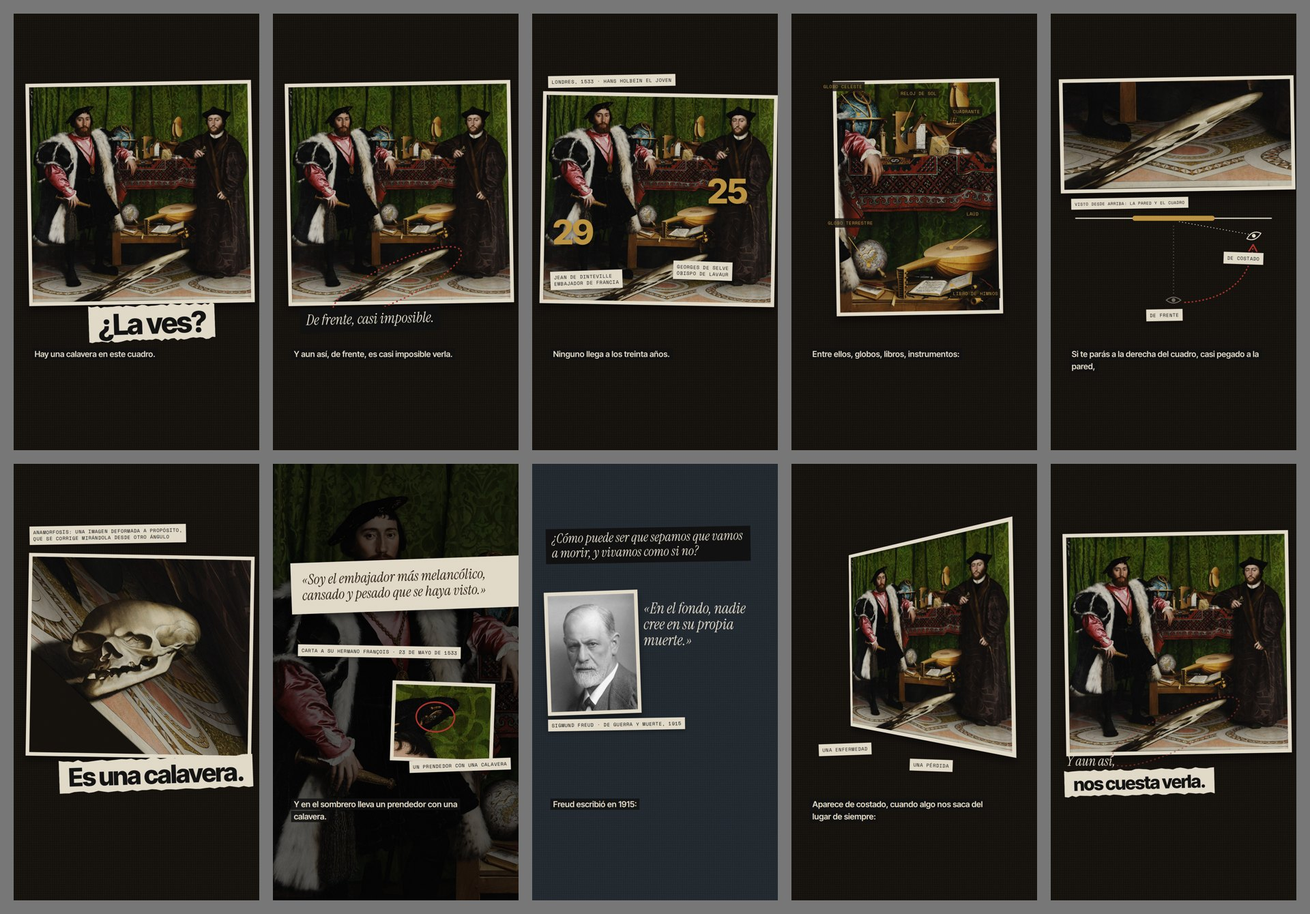
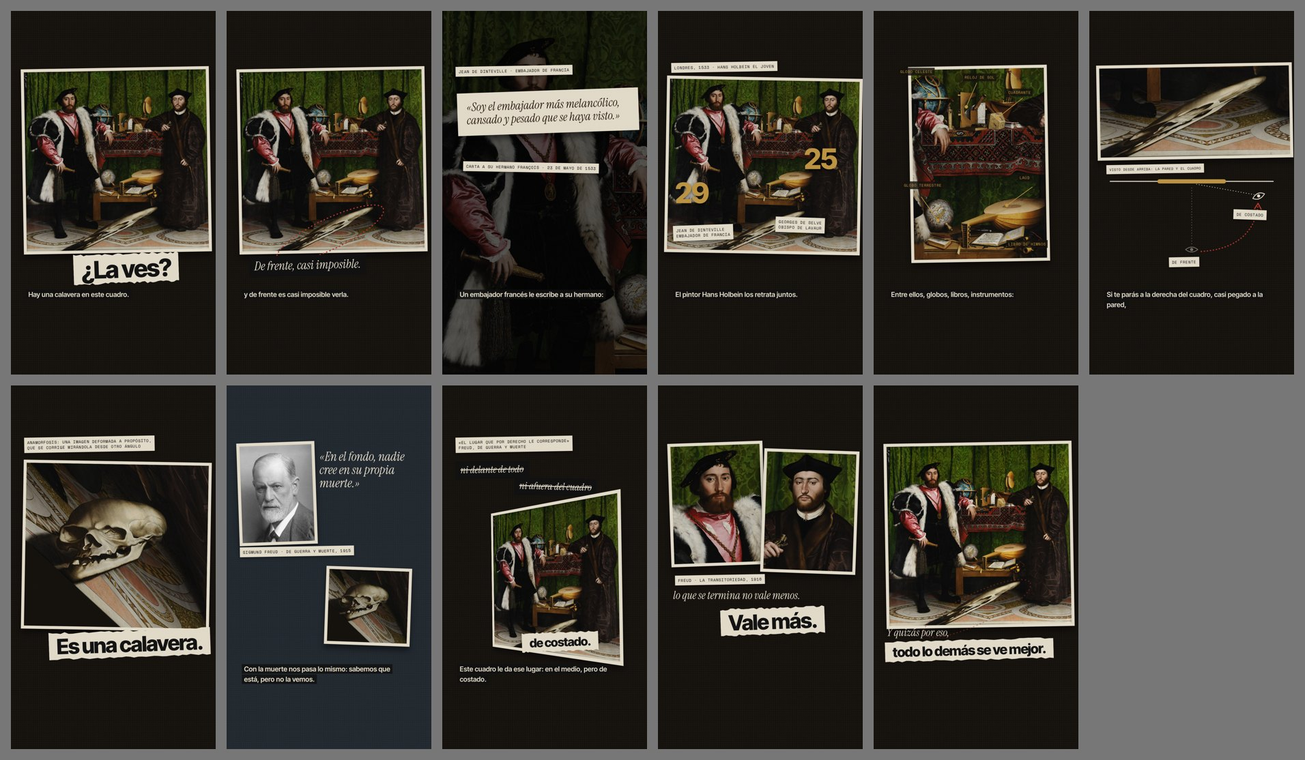
04: guion versión 2 con el aporte para quien mira; reglas del aporte y del estreno
Después de la devolución de Dano: el giro ya no termina en describir cómo negamos la muerte, sino en darle su lugar (Freud,
De guerra y muerte) y en que lo que se termina vale más (La transitoriedad). Guía de escritura, regla 13: cada video le deja
algo a quien mira. Guía visual, regla 14: cada video estrena un efecto (en el 04, la anamorfosis animada).

Claude-Session: https://claude.ai/code/session_014ALApHG8hUWvBvb5xsLDbW

diff --git a/videos/04-embajadores/storyboard.html b/videos/04-embajadores/storyboard.html
@@ -22,6 +22,7 @@
 </style>
 </head>
 <body>
+<!-- el orden del video: f1 f2 f7 f3 f4 f5 f6 f8 f9 f11 f10 (ver la tabla del guion) -->
 
 <!-- 1 · GANCHO: el cuadro entero -->
 <section class="frame" id="f1">
@@ -45,11 +46,11 @@
     </svg>
   </div>
   <div class="negro serif" style="top:1290px;left:120px;font-size:64px;transform:rotate(-1.5deg)">De frente, casi imposible.</div>
-  <div class="sub" style="top:1470px"><span>Y aun así, de frente, es casi imposible verla.</span></div>
+  <div class="sub" style="top:1470px"><span>y de frente es casi imposible verla.</span></div>
   <div class="grano"></div>
 </section>
 
-<!-- 3 · LOS DOS -->
+<!-- 4 · EL AMIGO: los dos, con sus edades -->
 <section class="frame" id="f3">
   <div class="puntos"></div>
   <div class="ficha" style="top:270px;left:70px;transform:rotate(-1deg)">Londres, 1533 · Hans Holbein el Joven</div>
@@ -60,7 +61,7 @@
   <div class="ficha" style="top:1090px;left:620px;transform:rotate(2deg)">Georges de Selve<br>obispo de Lavaur</div>
   <div class="num" style="top:870px;left:90px;font-size:150px">29</div>
   <div class="num" style="top:690px;left:770px;font-size:150px">25</div>
-  <div class="sub" style="top:1470px"><span>Ninguno llega a los treinta años.</span></div>
+  <div class="sub" style="top:1470px"><span>El pintor Hans Holbein los retrata juntos.</span></div>
   <div class="grano"></div>
 </section>
 
@@ -129,58 +130,73 @@
   <div class="grano"></div>
 </section>
 
-<!-- 7 · LA CARTA y el prendedor -->
+<!-- 3 · LA CARTA -->
 <section class="frame" id="f7">
   <div class="plate oscuro" data-img="emb" data-crop="300,150,1500,2667" style="inset:0"></div>
-  <div class="carta serif" style="top:420px;left:80px;width:920px;font-size:62px;line-height:1.12;transform:rotate(-2deg)">«Soy el embajador más melancólico, cansado y pesado que se haya visto.»</div>
+  <div class="ficha" style="top:290px;left:70px;transform:rotate(-1deg)">Jean de Dinteville · embajador de Francia</div>
+  <div class="carta serif" style="top:420px;left:80px;width:860px;font-size:62px;line-height:1.12;transform:rotate(-2deg)">«Soy el embajador más melancólico, cansado y pesado que se haya visto.»</div>
   <div class="ficha" style="top:800px;left:110px;transform:rotate(1deg)">Carta a su hermano François · 23 de mayo de 1533</div>
-  <div class="lamina" style="top:960px;left:520px;width:420px;height:320px;transform:rotate(2deg)">
-    <div class="plate" data-img="emb" data-crop="960,320,250,180"></div>
-    <svg class="marca" style="inset:16px" viewBox="0 0 388 288" fill="none" stroke="var(--rojo)" stroke-width="6">
-      <ellipse cx="164" cy="128" rx="78" ry="60"/>
-    </svg>
-  </div>
-  <div class="ficha" style="top:1300px;left:600px;transform:rotate(-2deg)">un prendedor con una calavera</div>
-  <div class="sub" style="top:1470px"><span>Y en el sombrero lleva un prendedor con una calavera.</span></div>
+  <div class="sub" style="top:1470px"><span>Un embajador francés le escribe a su hermano:</span></div>
   <div class="grano"></div>
 </section>
 
-<!-- 8 · FREUD -->
+<!-- 7 · FREUD -->
 <section class="frame teal" id="f8">
   <div class="puntos"></div>
-  <div class="negro serif" style="top:280px;left:60px;right:120px;font-size:58px;line-height:1.1;transform:rotate(-1deg)">¿Cómo puede ser que sepamos que vamos a morir, y vivamos como si no?</div>
-  <div class="lamina" style="top:560px;left:60px;width:380px;height:510px;transform:rotate(-2deg)">
+  <div class="lamina" style="top:300px;left:60px;width:380px;height:510px;transform:rotate(-2deg)">
     <div class="plate" data-img="freud" data-crop="360,20,600,795"></div>
   </div>
-  <div class="serif" style="top:600px;left:490px;width:470px;font-size:66px;line-height:1.06">«En el fondo, nadie cree en su propia muerte.»</div>
-  <div class="ficha" style="top:1120px;left:70px;transform:rotate(-1deg)">Sigmund Freud · De guerra y muerte, 1915</div>
-  <div class="sub" style="top:1470px"><span>Freud escribió en 1915:</span></div>
+  <div class="serif" style="top:340px;left:490px;width:470px;font-size:66px;line-height:1.06">«En el fondo, nadie cree en su propia muerte.»</div>
+  <div class="ficha" style="top:850px;left:70px;transform:rotate(-1deg)">Sigmund Freud · De guerra y muerte, 1915</div>
+  <div class="lamina ventana" style="top:960px;left:520px;width:420px;height:380px;transform:rotate(2deg);background-color:var(--crema)">
+    <div class="plate ventana">
+      <div class="anamorfosis" data-k=".2" style="width:2688px;height:2649px;left:-1157px;top:-2150px;transform-origin:1351px 2324px;opacity:.85"></div>
+    </div>
+  </div>
+  <div class="sub" style="top:1470px"><span>Con la muerte nos pasa lo mismo: sabemos que está, pero no la vemos.</span></div>
   <div class="grano"></div>
 </section>
 
-<!-- 9 · DE COSTADO: la calavera asoma cuando el cuadro se inclina -->
+<!-- 8 · EL LUGAR: ni delante de todo, ni afuera del cuadro; en el medio, pero de costado -->
 <section class="frame" id="f9">
   <div class="puntos"></div>
-  <div class="lamina" style="top:330px;left:110px;width:860px;height:848px;transform:perspective(1600px) rotateY(-38deg) rotate(-1deg)">
+  <div class="ficha" style="top:270px;left:70px;transform:rotate(-1deg)">«el lugar que por derecho le corresponde»<br>Freud, De guerra y muerte</div>
+  <div class="negro serif" style="top:400px;left:70px;font-size:52px;transform:rotate(-1deg)"><s>ni delante de todo</s></div>
+  <div class="negro serif" style="top:490px;left:380px;font-size:52px;transform:rotate(1.5deg)"><s>ni afuera del cuadro</s></div>
+  <div class="lamina" style="top:620px;left:150px;width:780px;height:770px;transform:perspective(1600px) rotateY(-34deg) rotate(-1deg)">
     <div class="plate" data-img="emb" data-crop="0,0,3840,3784"></div>
   </div>
-  <div class="ficha" style="top:1230px;left:120px;transform:rotate(-2deg)">una enfermedad</div>
-  <div class="ficha" style="top:1300px;left:520px;transform:rotate(2deg)">una pérdida</div>
-  <div class="sub" style="top:1470px"><span>Aparece de costado, cuando algo nos saca del lugar de siempre:</span></div>
+  <div class="tira titular" data-rasgado style="top:1300px;left:420px;font-size:64px;transform:rotate(-2deg)">de costado.</div>
+  <div class="sub" style="top:1470px"><span>Este cuadro le da ese lugar: en el medio, pero de costado.</span></div>
   <div class="grano"></div>
 </section>
 
-<!-- 10 · CIERRE: de frente otra vez -->
+<!-- 9 · VALE MÁS: los dos amigos -->
+<section class="frame" id="f11">
+  <div class="puntos"></div>
+  <div class="lamina" style="top:300px;left:60px;width:470px;height:620px;transform:rotate(-2deg)">
+    <div class="plate" data-img="emb" data-crop="560,300,760,1003"></div>
+  </div>
+  <div class="lamina" style="top:340px;left:550px;width:470px;height:620px;transform:rotate(2deg)">
+    <div class="plate" data-img="emb" data-crop="2900,380,760,1003"></div>
+  </div>
+  <div class="ficha" style="top:1000px;left:90px;transform:rotate(-1deg)">Freud · La transitoriedad, 1916</div>
+  <div class="serif" style="top:1070px;left:80px;font-size:58px">lo que se termina no vale menos.</div>
+  <div class="tira titular" data-rasgado style="top:1170px;left:330px;font-size:112px;transform:rotate(-2deg)">Vale más.</div>
+  <div class="grano"></div>
+</section>
+
+<!-- 10 · CIERRE: de frente otra vez, y todo lo demás se ilumina -->
 <section class="frame" id="f10">
   <div class="puntos"></div>
   <div class="lamina" style="top:300px;left:60px;width:960px;height:946px;transform:rotate(-1deg)">
-    <div class="plate" data-img="emb" data-crop="0,0,3840,3784"></div>
-    <svg class="marca" style="inset:16px" viewBox="0 0 928 914" fill="none" stroke="var(--rojo)" stroke-width="6" stroke-linecap="round" opacity=".55">
+    <div class="plate" data-img="emb" data-crop="0,0,3840,3784" style="filter:brightness(1.12) saturate(1.1)"></div>
+    <svg class="marca" style="inset:16px" viewBox="0 0 928 914" fill="none" stroke="var(--rojo)" stroke-width="6" stroke-linecap="round" opacity=".4">
       <ellipse rx="300" ry="78" stroke-dasharray="2 16" transform="translate(448 832) rotate(-24.5)"/>
     </svg>
   </div>
-  <div class="serif" style="top:1268px;left:70px;font-size:60px">Y aun así,</div>
-  <div class="tira titular" data-rasgado style="top:1340px;left:60px;font-size:80px;white-space:nowrap;transform:rotate(-1.5deg)">nos cuesta verla.</div>
+  <div class="serif" style="top:1268px;left:70px;font-size:56px">Y quizás por eso,</div>
+  <div class="tira titular" data-rasgado style="top:1340px;left:60px;font-size:72px;white-space:nowrap;transform:rotate(-1.5deg)">todo lo demás se ve mejor.</div>
   <div class="grano"></div>
 </section>
 

diff --git a/videos/04-embajadores/guion.md b/videos/04-embajadores/guion.md
@@ -1,63 +1,86 @@
 # 04 · Los embajadores: la calavera que no se ve de frente
 
-Formato B (leer un cuadro), con la historia de quien lo encargó · Duración estimada: 84 s · 1080×1920 · Sistema visual v1 con
+Formato B (leer un cuadro), con la historia de los dos amigos · Duración estimada: 84 s · 1080×1920 · Sistema visual v1 con
 paleta propia (ver abajo).
 
 Elegido de las pistas ★★ del [banco de pistas](../../docs/banco-de-pistas.md#-la-calavera-que-solo-se-ve-de-costado): el mismo
 juego que funcionó con Ícaro ("¿la ves?"), pero acá buscar no alcanza: para ver la calavera hay que cambiar de lugar.
 
-## Guion (voz en off)
+## Guion (voz en off) · versión 2
+
+Reescrita después de la devolución de Dano sobre la versión 1: además de mostrar la obra, ¿qué se lleva quien mira? (regla 13
+de la [guía de escritura](../../docs/guia-de-escritura.md)). La versión 1 describía cómo negamos la muerte; la 2 propone algo
+para pensar: darle a la muerte su lugar, y lo que eso le hace al valor de lo demás.
 
 > Hay una calavera en este cuadro. ¿La ves?
 >
-> Está en el medio, a la vista de todos. Y aun así, de frente, es casi imposible verla. La razón dice algo de cómo miramos nuestra propia muerte.
+> Está en el medio, a la vista de todos, y de frente es casi imposible verla. La razón dice algo de cómo vivimos sabiendo que vamos a morir.
 >
-> Londres, 1533. El pintor Hans Holbein retrata a dos franceses: un embajador y su amigo, un obispo. Ninguno llega a los treinta años.
+> Londres, 1533. Un embajador francés le escribe a su hermano: «Soy el embajador más melancólico, cansado y pesado que se haya visto». Su amigo, un obispo, viaja a visitarlo, y eso lo alegra. El pintor Hans Holbein los retrata juntos.
 >
 > Entre ellos, globos, libros, instrumentos: todo lo que sabían y lo que tenían.
 >
-> Pero a sus pies hay una mancha larga. Si te parás a la derecha del cuadro, casi pegado a la pared, la mancha se acomoda: es una calavera. Holbein la pintó deformada a propósito.
+> Pero a sus pies hay una mancha larga. Si te parás a la derecha del cuadro, casi pegado a la pared, la mancha se acomoda: es una calavera.
 >
-> Ese año, el embajador le escribió a su hermano: «Soy el embajador más melancólico, cansado y pesado que se haya visto». Y en el sombrero lleva un prendedor con una calavera.
+> Con la muerte nos pasa lo mismo: sabemos que está, pero no la vemos. Freud escribió en 1915: «En el fondo, nadie cree en su propia muerte».
 >
-> ¿Cómo puede ser que sepamos que vamos a morir, y vivamos como si no? Freud escribió en 1915: «En el fondo, nadie cree en su propia muerte».
+> Pero también propuso darle a la muerte el lugar que le corresponde. Ni delante de todo, ni afuera del cuadro. Este cuadro le da ese lugar: en el medio, pero de costado.
 >
-> En el cuadro pasa lo mismo: la muerte está en el medio, pero de frente no se ve. Aparece de costado, cuando algo nos saca del lugar de siempre: una enfermedad, una pérdida.
+> Y Freud escribió algo más: lo que se termina no vale menos. Vale más.
 >
-> Ahora que sabés dónde está, volvé a mirar el cuadro de frente. La calavera sigue ahí. Y aun así, nos cuesta verla.
+> Ahora volvé a mirar el cuadro de frente. La calavera casi no se ve. Pero sabés que está. Y quizás por eso, todo lo demás se ve mejor.
 
-219 palabras: unos 81 s de voz a 2,7 palabras por segundo, más 1,5 s de silencio después de "¿La ves?" (para buscar) y la
+218 palabras: unos 81 s de voz a 2,7 palabras por segundo, más 1,5 s de silencio después de "¿La ves?" (para buscar) y la
 cola: 84–86 s.
 
-**Para la voz:** "Holbein" se dice *jólbain*; "Freud", *fróid*. Si ElevenLabs lee mal "1533", escribir "mil quinientos treinta y
-tres" solo en el texto que se le pasa.
+**Para la voz:** "Holbein" se dice *jólbain*; "Freud", *fróid*. Si ElevenLabs lee mal "1533" o "1915", escribirlos con letras
+solo en el texto que se le pasa.
+
+### Qué se lleva quien mira
+
+Tres ideas de Freud, encadenadas y dichas simple, sin nombrar escuelas:
+
+1. **Sabemos que vamos a morir, pero no lo creemos** (*De guerra y muerte*, 1915). No es un defecto de nadie: es cómo
+   funciona la cabeza. Por eso la calavera de frente no se ve.
+2. **Negarla del todo tampoco sirve:** en el mismo texto, Freud propone darle a la muerte "el lugar que por derecho le
+   corresponde". La voz lo traduce en imagen: ni delante de todo (vivir con miedo), ni afuera del cuadro (hacer como si no
+   existiera). La anamorfosis es justo eso: está en el medio, pero se ve de costado.
+3. **Lo que se termina vale más** (*La transitoriedad*, 1916): a un poeta que decía que la belleza perdía valor porque iba a
+   terminarse, Freud le contestó que pasaba lo contrario.
+
+El cierre no da una receta: "quizás por eso, todo lo demás se ve mejor". Lo demás es lo que el video ya mostró (lo que sabían,
+lo que tenían, la visita del amigo) y lo que cada uno ponga.
 
 ### Por qué está armado así
 
 - **El juego del 02, con otra vuelta.** En Ícaro bastaba con buscar bien. Acá la calavera está en el centro y aun así no se
   ve: hay que moverse. El truco del cuadro es el concepto del video.
-- **Una revelación cada 10 segundos:** la mancha, la calavera, la carta del embajador, el prendedor, Freud, "aparece de
-  costado".
-- **Los nombres van en pantalla, no en la voz** (método de los 90 s, punto 5): la voz dice "un embajador y su amigo, un
+- **Una persona con algo en juego:** un embajador triste, lejos de su casa, al que una visita le cambia el ánimo. El cuadro
+  retrata esa amistad, y la calavera está en el medio.
+- **Una revelación cada 10 segundos:** la carta, el amigo, la mancha, la calavera, Freud, "el lugar que le corresponde",
+  "vale más".
+- **Los nombres van en pantalla, no en la voz** (método de los 90 s, punto 5): la voz dice "un embajador" y "su amigo, un
   obispo"; las fichas dicen Jean de Dinteville y Georges de Selve, con sus edades (29 y 25, escritas en el cuadro).
 - **El dato y la lectura, separados.** Que la calavera es una anamorfosis lo confirma el museo. Freud no escribió sobre este
-  cuadro: la voz cuenta lo que escribió sobre la muerte, y la frase "en el cuadro pasa lo mismo" deja claro que el puente lo
-  hacemos nosotros.
-- **Lacan queda para El Reflejo.** Su lectura (la calavera como una mirada que nos descoloca, Seminario 11, 1964) es la más
-  rica, pero necesita más tiempo del que hay. Se nombra en la descripción.
-- **El cierre rima con la promesa** ("Y aun así, de frente, es casi imposible verla" → "Y aun así, nos cuesta verla"), no
-  juzga a quien mira e incluye a quien habla.
+  cuadro: "este cuadro le da ese lugar" describe dónde está la calavera, no lo que quiso Holbein.
+- **Lacan y Žižek quedan para El Reflejo.** Lacan lee la calavera como una mirada que nos descoloca (Seminario 11, 1964);
+  Žižek tomó la idea para el título de *Mirando al sesgo* (1991). Se nombran en la descripción.
+
+### Versión 1 (descartada)
+
+Describía bien el mecanismo, pero terminaba en "nos cuesta verla": a quien mira no le dejaba nada para pensar más allá del
+cuadro. Queda en la historia del repo (commit `3e7fcdf`).
 
 ## Guion visual
 
 **Paleta, sacada del cuadro y distinta de la del 03** (que era verde estanque y rosa): nogal `#16120E` (el fondo oscuro del
-cuadro; fondo principal), hueso `#ECE4D2` (la calavera; papel de fichas y carta), lacre `#A0302A` (la alfombra; acento y
+cuadro; fondo principal), hueso `#ECE4D2` (la calavera; papel de fichas y carta), lacre `#B8362C` (la alfombra; acento y
 marcadores), oro viejo `#C49A45` (los instrumentos; líneas de catálogo) y pizarra `#232A31` (fondo del tramo de Freud).
 
 **Lo que cambia respecto del 03** (ver [guía visual](../../docs/guia-visual.md#variar-de-un-video-a-otro)):
 - El motivo es **el costado**: los tramos entran y salen deslizándose de lado (en el 03 subía una marea).
-- **La anamorfosis animada:** el cuadro entero se comprime en la dirección de la mancha (como se ve desde el costado) y la
-  calavera se endereza. Probado con la imagen: con un 20 % del largo se lee perfecta.
+- **Estreno: la anamorfosis animada.** El cuadro entero se comprime en la dirección de la mancha (como se ve desde el
+  costado) y la calavera se endereza. Probado con la imagen: con un 20 % del largo se lee perfecta.
 - **Un plano visto desde arriba** (pared, cuadro y un ojo que camina hasta pegarse a la pared) explica dónde pararse.
 - **Líneas de catálogo:** los objetos de la mesa se nombran con líneas finas que salen de cada uno.
 - **La carta escrita con tinta:** la cita del embajador aparece línea por línea, como escrita a mano, sobre papel hueso.
@@ -65,14 +88,15 @@ marcadores), oro viejo `#C49A45` (los instrumentos; líneas de catálogo) y piza
 | # | Tramo | Imagen | Texto en pantalla |
 |---|---|---|---|
 | 1 | Gancho | El cuadro entero en una lámina, sobre nogal; la cámara se acerca despacio. 1,5 s de silencio para buscar | "¿La ves?" |
-| 2 | Promesa | Un rectángulo punteado lacre encierra la mancha sin taparla; vuelve el cuadro entero | "De frente, casi imposible." · "¿Cómo miramos nuestra propia muerte?" |
-| 3 | Los dos | El cuadro a sangre: la cámara va de Dinteville a Selve; en "treinta" aparecen el 29 de la daga y el 25 del libro | ficha "Londres, 1533 · Hans Holbein el Joven" · fichas con nombres y cargos · "29" · "25" |
-| 4 | La mesa | La cámara en la mesa; líneas de catálogo a cada objeto | "globo celeste" · "relojes de sol" · "globo terrestre" · "laúd" · "libros" |
-| 5 | La mancha | La cámara baja al piso. En "a la derecha del cuadro", el plano visto desde arriba: el ojo camina hasta la pared. En "se acomoda", la anamorfosis: el cuadro se comprime y aparece la calavera | "Es una calavera." · ficha "Anamorfosis: una imagen deformada a propósito, que se corrige mirándola desde otro ángulo" |
-| 6 | La carta | La cara de Dinteville a sangre, oscurecida; entra de costado una hoja hueso con la cita escrita con tinta. En "sombrero", la cámara sube al prendedor y lo rodea una elipse que no lo tapa | ficha "Carta a su hermano François, 23 de mayo de 1533" · la cita |
-| 7 | Freud | Fondo pizarra. La pregunta; después Freud en una lámina y la cita escrita con tinta | "¿Cómo puede ser…?" · ficha "*De guerra y muerte* (1915)" · «En el fondo, nadie cree en su propia muerte.» |
-| 8 | De costado | El cuadro de frente; la calavera corregida aparece como un fantasma y se va. En "de costado", el cuadro se inclina apenas y la calavera asoma | "una enfermedad" · "una pérdida" |
-| 9 | Cierre | El cuadro de frente, con el rectángulo punteado; en "sigue ahí" late una vez y se apaga. El último segundo vuelve al primer cuadro (el loop empalma) | "Y aun así, nos cuesta verla." |
+| 2 | Promesa | Una elipse punteada lacre rodea la mancha sin taparla | "De frente, casi imposible." |
+| 3 | La carta | Dinteville a sangre, oscurecido; entra de costado una hoja hueso con la cita escrita con tinta | ficha "Jean de Dinteville, embajador de Francia · carta a su hermano, 23 de mayo de 1533" · la cita |
+| 4 | El amigo | La cámara cruza el cuadro hasta Selve; en "los retrata juntos" se abre al cuadro entero y aparecen el 29 de la daga y el 25 del libro | ficha "Georges de Selve, obispo de Lavaur" · ficha "Hans Holbein el Joven · Londres, 1533" · "29" · "25" |
+| 5 | La mesa | La cámara en la mesa; líneas de catálogo a cada objeto | "globo celeste" · "reloj de sol" · "cuadrante" · "globo terrestre" · "laúd" · "libro de himnos" |
+| 6 | La mancha | La cámara baja al piso. En "a la derecha del cuadro", el plano visto desde arriba: el ojo camina hasta la pared. En "se acomoda", la anamorfosis: el cuadro se comprime y aparece la calavera | "Es una calavera." · ficha "Anamorfosis: una imagen deformada a propósito, que se corrige mirándola desde otro ángulo" |
+| 7 | Freud | Fondo pizarra. Freud en una lámina; la cita escrita con tinta | ficha "*De guerra y muerte*, 1915" · «En el fondo, nadie cree en su propia muerte.» |
+| 8 | El lugar | En "delante de todo", la calavera enderezada crece hasta tapar la pantalla; en "afuera del cuadro", sale de costado y deja la pantalla vacía apenas un instante; en "este cuadro le da ese lugar", vuelve el cuadro entero, inclinado de costado, con la calavera a medio enderezar | ficha con la cita exacta: «el lugar que por derecho le corresponde» · "ni delante de todo" · "ni afuera del cuadro" |
+| 9 | Vale más | Las caras de los dos amigos, juntas | ficha "*La transitoriedad*, 1916" · "Vale más." |
+| 10 | Cierre | El cuadro de frente, apagado; la elipse punteada se dibuja y se borra en "sabés que está". En "todo lo demás se ve mejor", el cuadro se ilumina de a poco, menos la calavera. El último segundo vuelve al primer cuadro (el loop empalma) | "todo lo demás se ve mejor." |
 
 ## Obras
 
@@ -93,9 +117,13 @@ búsqueda que citan esas páginas, en al menos dos fuentes cada uno. **Dano: rev
 | Georges de Selve, obispo de Lavaur, de visita en Londres de abril a junio de 1533; "AETATIS SUAE 25" en las páginas del libro (algunos lo leen como "en su año 25", es decir, 24) | National Gallery; History Hit; Every Picture, *The Ambassadors* |
 | La calavera es una anamorfosis que se ve bien desde la derecha, en un ángulo muy oblicuo; el marco tiene una moldura baja para permitir esa vista | National Gallery; *thatsmaths.com*, "Holbein's anamorphic skull" |
 | ◇ Carta del 23 de mayo de 1533 a su hermano François, obispo de Auxerre: «Je suis le plus mélancolique, fâché et fâcheux ambassadeur qu'on vit oncques». La National Gallery la traduce "the most melancholy, weary and wearisome ambassador that was ever seen"; extrañaba a su familia y el frío y la humedad lo enfermaban | National Gallery; Wikipedia en francés, *Les Ambassadeurs*. La traducción de la voz ("melancólico, cansado y pesado") es nuestra |
-| Prendedor con una calavera en el sombrero de Dinteville | National Gallery; Wikipedia |
+| Su amigo lo visita y eso lo alegra: "the arrival of his friend, who was in London briefly from April to June, cheered him up" | National Gallery. Se suele decir que Dinteville encargó el cuadro para recordar esa visita; la voz no lo afirma |
+| (No va en la voz) prendedor con una calavera en el sombrero de Dinteville | National Gallery; Wikipedia |
 | (No va en la voz) crucifijo medio tapado por la cortina, arriba a la izquierda | National Gallery; Wikipedia |
 | ◇ Freud, *De guerra y muerte. Temas de actualidad* (1915), parte II, "Nuestra actitud hacia la muerte" (Amorrortu, *Obras completas*, t. XIV): «la muerte propia es inimaginable, y cuantas veces lo intentamos podemos notar que en verdad sobrevivimos como observadores. […] en el fondo nadie cree en su propia muerte, o, lo que viene a ser lo mismo: en el inconsciente cada uno de nosotros está convencido de su inmortalidad» | Citado igual en *Querencia* (Universidad de la República) y en *Psicopsi*; el tomo XIV no está en el Drive: confirmar la página en el libro |
+| ◇ En el mismo texto: «¿No sería mejor dejar a la muerte, en la realidad y en nuestros pensamientos, el lugar que por derecho le corresponde, y sacar a relucir un poco más nuestra actitud inconciente hacia ella…?». Termina con «Si vis vitam, para mortem»: si querés soportar la vida, preparate para la muerte | Citado igual en *Psicopsi* y *Psicomundo*; confirmar en el tomo XIV |
+| ◇ Freud, *La transitoriedad* (1916, escrito en 1915), tomo XIV: a un poeta que sentía que la belleza perdía valor por ser pasajera, Freud le responde que es al revés: «El valor de la transitoriedad es el de la escasez en el tiempo». La voz lo dice como "lo que se termina no vale menos: vale más" | *Psicopsi*; *Virtualia*, "Pandemia y transitoriedad"; confirmar en el tomo XIV |
+| (No va en la voz) Slavoj Žižek, *Mirando al sesgo. Una introducción a Jacques Lacan a través de la cultura popular* (1991): el título viene de la anamorfosis de *Los embajadores* | Aula de Filosofía, reseña de *Mirando al sesgo* |
 | (No va en la voz) Lacan describe la calavera en el Seminario 11 (1964): aparece cuando, al salir de la sala, uno se da vuelta a mirar el cuadro | Lacan, *Los cuatro conceptos fundamentales del psicoanálisis*, clases de febrero y marzo de 1964; doce-pensadores §11 [22] [23] |
 
 Datos que quedan fuera del guion, para la descripción o para El Reflejo: el laúd tiene una cuerda rota; el libro de himnos

diff --git a/docs/guia-visual.md b/docs/guia-visual.md
@@ -54,8 +54,13 @@ oscura); lo que cambia en cada video es el color, las composiciones y los efecto
     obra a sangre con cámara, lámina, dos láminas, texto solo. Que no haya tres tramos seguidos con el título arriba a la
     izquierda y la lámina al medio.
 
+14. **Cada video estrena algo.** Pedido de Dano: además de variar, en cada video hay un espacio, aunque sea corto, para
+    probar un efecto o un movimiento que nunca se usó. Le da frescura sin romper la marca. Si funciona, pasa a `motor.js` y
+    queda disponible para los siguientes. En la tabla, el estreno de cada video va en negrita.
+
 | Video | Paleta | Recursos |
 |---|---|---|
 | 01 · No hay nadie | noche `#15233A`, teal, papel tibio, amarillo reflector | láminas, tira rasgada, reflector, sala de figuras |
 | 02 · Ícaro | noche `#15233A`, teal `#0F5E5A`, papel tibio `#E7D9C0`, amarillo `#E9C46A`, rojo | zoom logarítmico dentro del cuadro, aro que busca, flechas de mirada, papel rasgado que sube, conteo de porcentajes |
-| 03 · Narciso | estanque `#0E2420`, rosa Eco `#E5BDB3`, vino `#3E1820`, pétalo `#F2EEE4`, azafrán `#E8A33D` | obras a sangre con cámara, giro de 180°, marea (`marea()` en `motor.js`), agua (filtros SVG de desplazamiento), eco tipográfico sincronizado con el eco de la voz, citas palabra por palabra (`porPalabra()`), título reflejado, final que vuelve al primer cuadro |
+| 03 · Narciso | estanque `#0E2420`, rosa Eco `#E5BDB3`, vino `#3E1820`, pétalo `#F2EEE4`, azafrán `#E8A33D` | obras a sangre con cámara, giro de 180°, **marea** (`marea()` en `motor.js`), **agua** (filtros SVG de desplazamiento), **eco tipográfico** sincronizado con el eco de la voz, citas palabra por palabra (`porPalabra()`), título reflejado, final que vuelve al primer cuadro |
+| 04 · Los embajadores | nogal `#16120E`, hueso `#ECE4D2`, lacre `#B8362C`, oro viejo `#C49A45`, pizarra `#232A31` | **anamorfosis animada** (el cuadro se comprime en la dirección de la mancha y la calavera se endereza), **plano visto desde arriba**, líneas de catálogo, carta escrita con tinta, transiciones de costado |

diff --git a/docs/guia-de-escritura.md b/docs/guia-de-escritura.md
@@ -45,6 +45,14 @@ quien escucha oye cada frase **una sola vez**, sin contexto y sin poder volver a
     quien habla ("los que miramos"), dejar una pregunta o volver a la imagen del principio, pero no juzga a quien mira.
     - ✗ "No está en el cuadro. Es lo que hiciste vos al principio, cuando te conté que había un hombre que cayó del cielo."
 
+13. **Cada video le deja algo a quien mira, más allá de la obra.** Pedido de Dano al leer la primera versión del 04: no
+    alcanza con mostrar el cuadro y explicar el mecanismo psicológico ("negamos la muerte"); tiene que quedar algo para pensar
+    la propia vida. Desde la psicología o el psicoanálisis, sin nombrar escuelas (alcanza con Freud o con desarrollar la
+    idea), en tono de divulgación: abierto, nunca una receta ni una verdad cerrada.
+    - ✗ "Y aun así, nos cuesta verla." (describe; no deja nada)
+    - ✓ "Freud escribió algo más: lo que se termina no vale menos. Vale más. […] Y quizás por eso, todo lo demás se ve mejor."
+    - Pregunta para hacerse antes de escribir el giro: ¿qué entiende de sí mismo quien terminó de mirar el video?
+
 ## Lo que sí se mantiene
 
 - El gancho corto y concreto ("¿Lo encontrás?").
@@ -95,3 +103,4 @@ dice exactamente el guion nuevo. Comandos: `videos/03-narciso/guion.md`.
 - [ ] ¿Cada "lo", "los", "ellos", "esto" tiene un referente que se nombró antes y que no puede confundirse?
 - [ ] ¿Las referencias al principio del video vuelven a decir de qué se trata?
 - [ ] ¿El cierre halaga, juzga o sermonea a quien mira? Si lo hace, reescribirlo.
+- [ ] ¿Qué se lleva quien mira para pensar su propia vida? Si la respuesta es solo "un dato sobre el cuadro", falta el aporte (regla 13).
